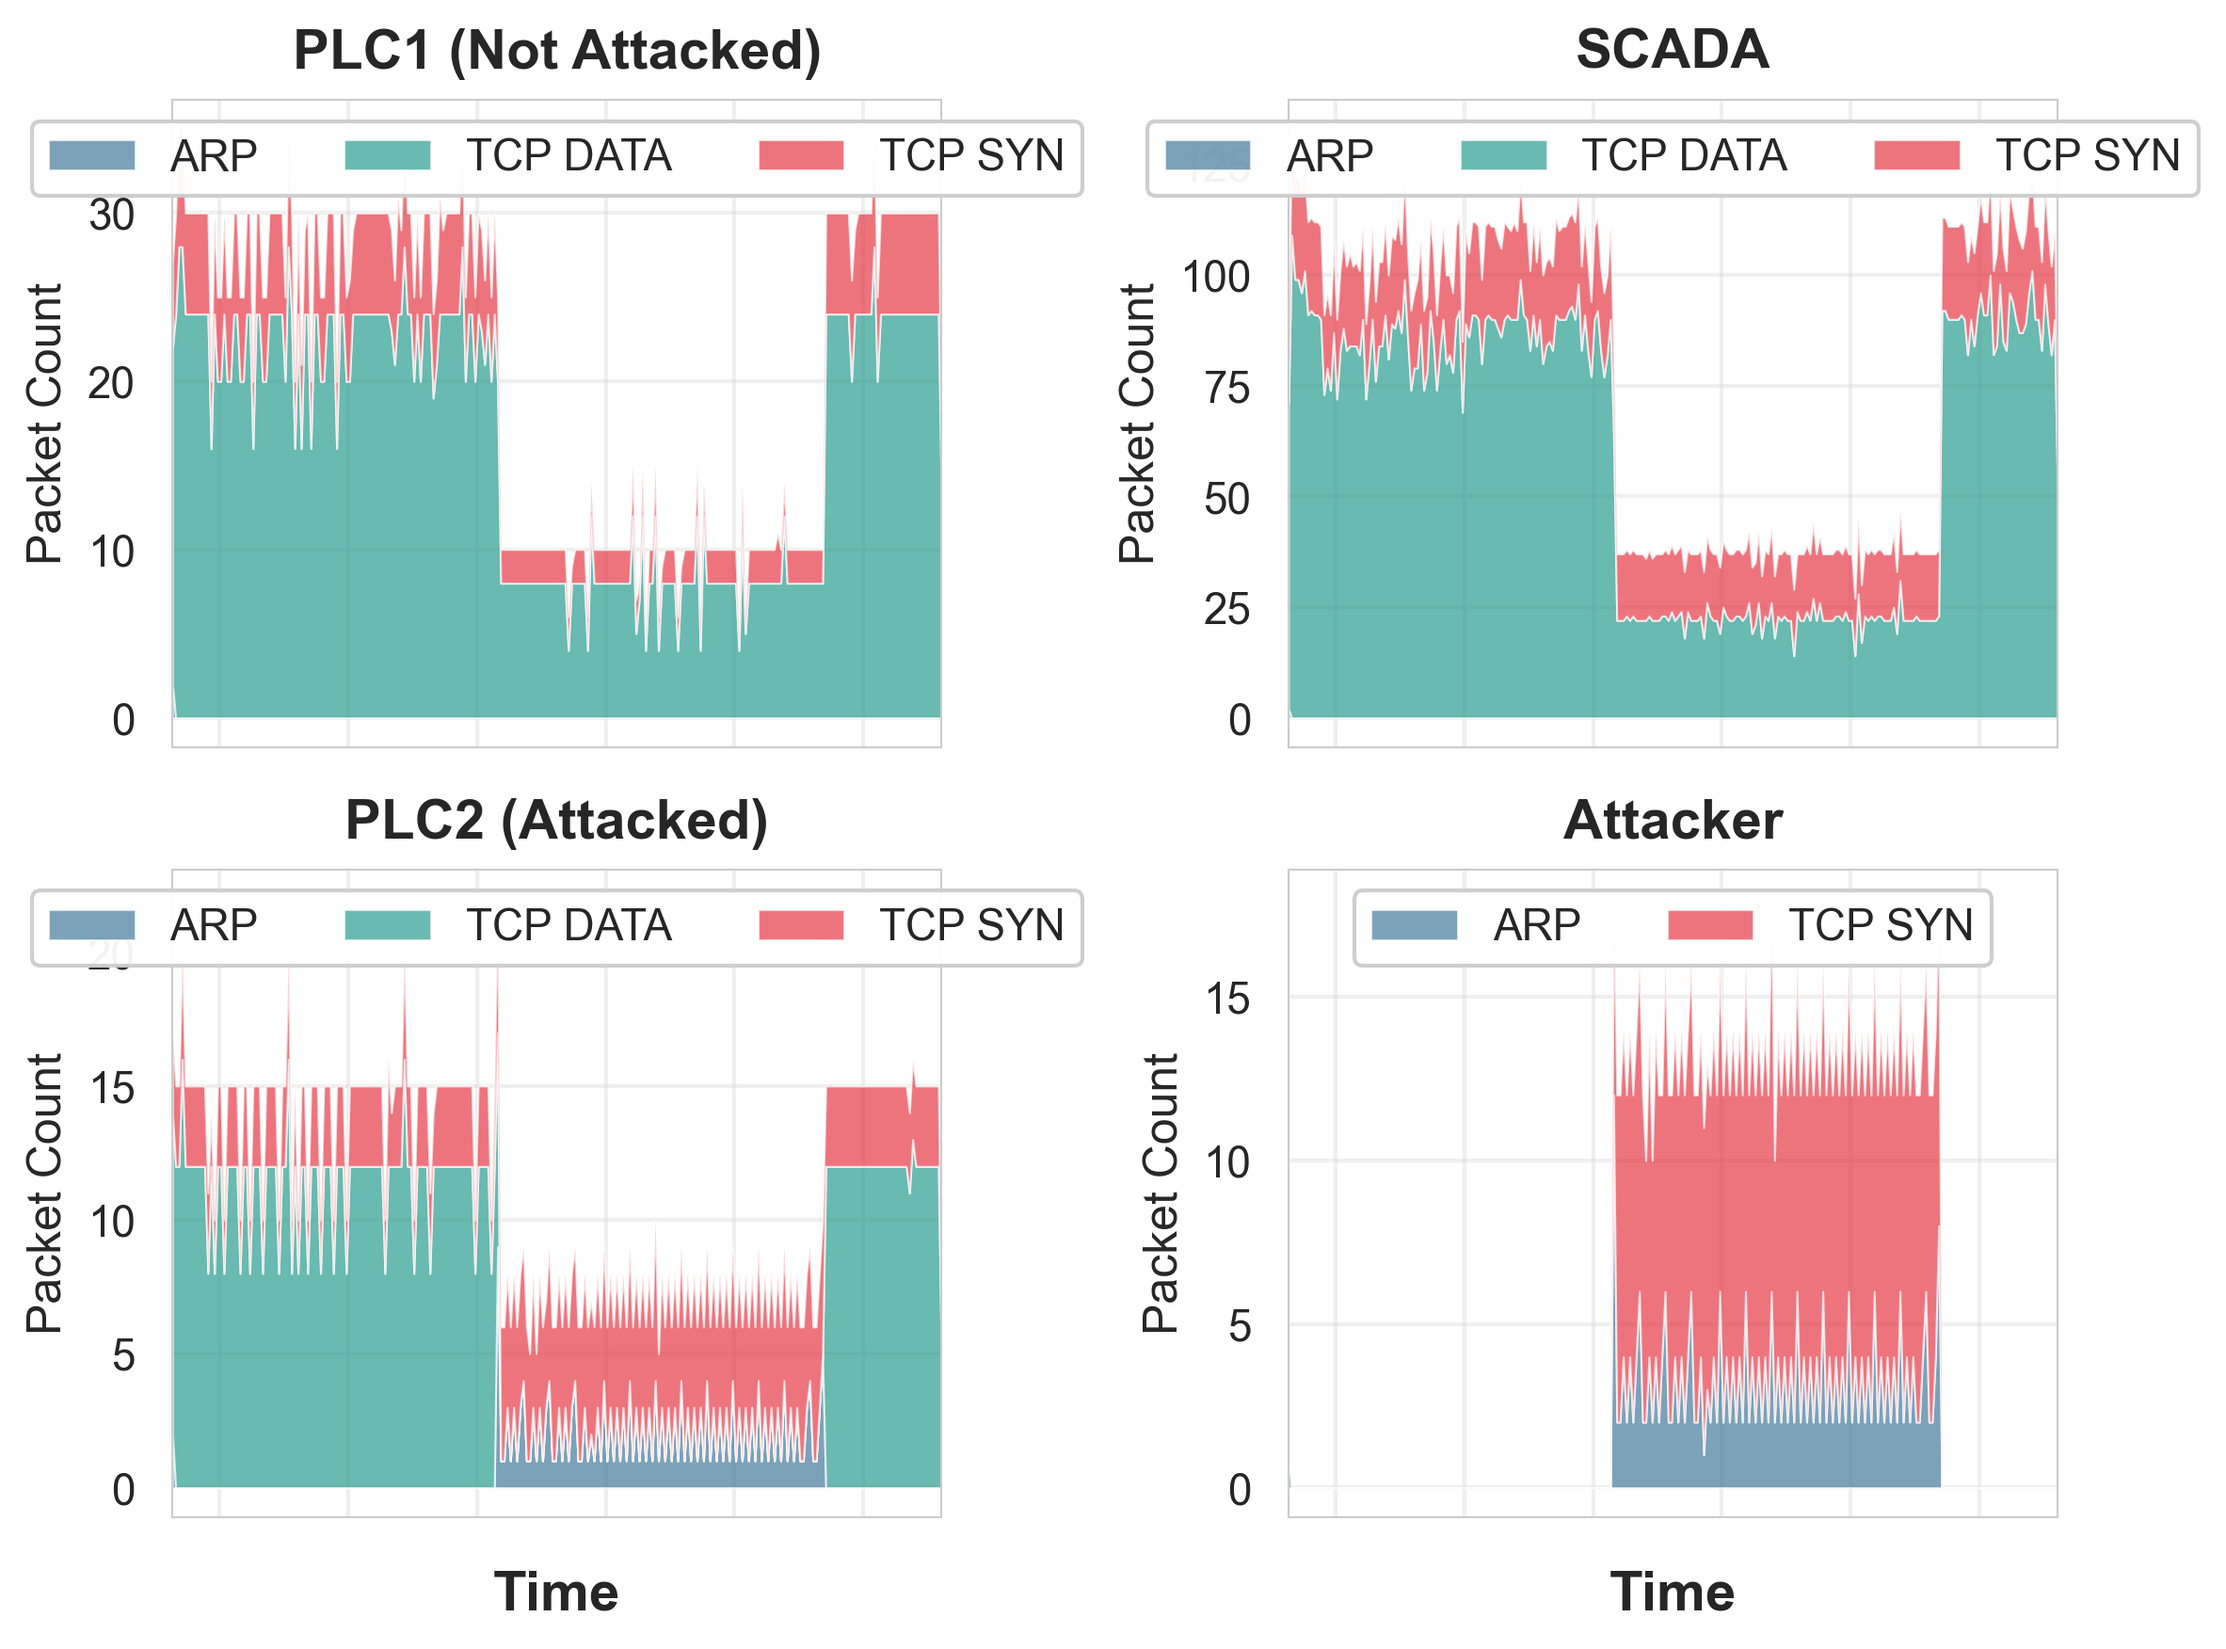
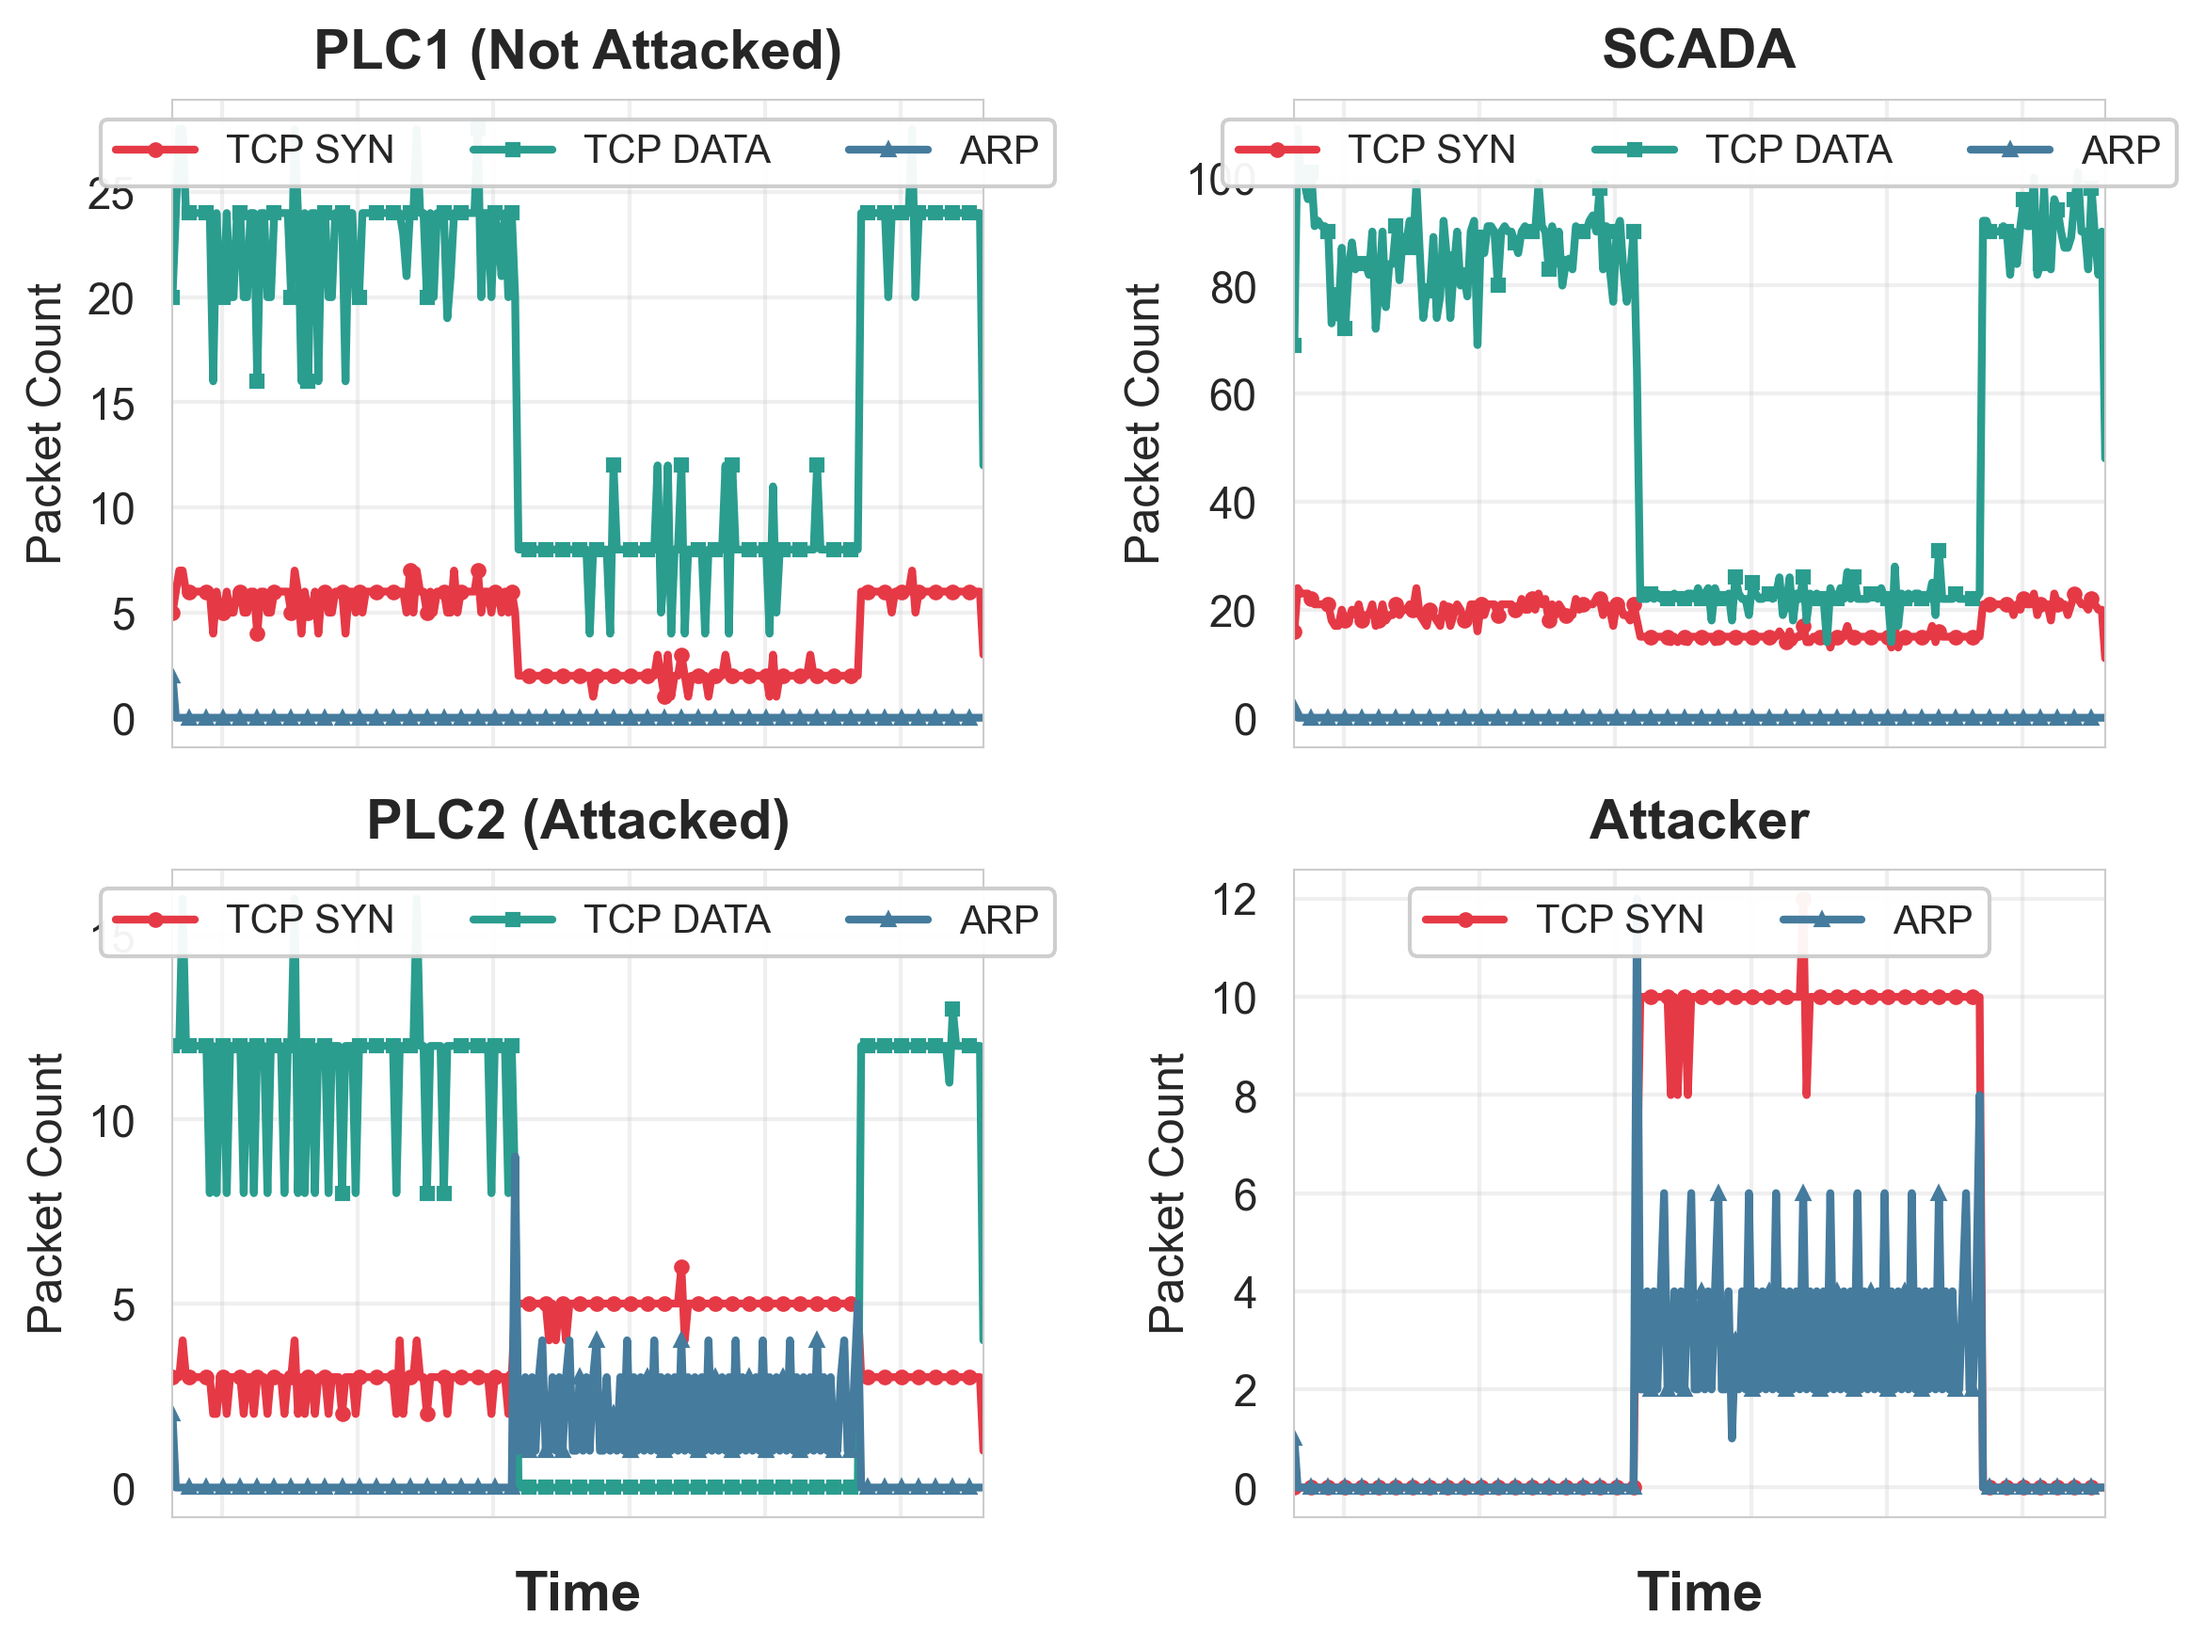
Change cyber layer visualization from stacked area to line plots

diff --git a/aaaMyViz/run_visualization.py b/aaaMyViz/run_visualization.py
@@ -140,31 +140,29 @@ try:
     def plot_binned_times_detailed(ax, packet_times, title):
         bin_centers = [bin + timedelta(seconds=bin_size / 2) for bin in bins[:-1]]
         
-        # Collect data for stacked area chart
-        data_series = {}
-        labels_order = ["ARP", "TCP-DATA", "TCP-SYN"]  # Stack order: bottom to top
+        # Line styles for each packet type
+        line_styles = {
+            "TCP-SYN": {"color": "#E63946", "linestyle": "-", "linewidth": 2, "marker": "o", "markersize": 3},
+            "TCP-DATA": {"color": "#2A9D8F", "linestyle": "-", "linewidth": 2, "marker": "s", "markersize": 3},
+            "ARP": {"color": "#457B9D", "linestyle": "-", "linewidth": 2, "marker": "^", "markersize": 3},
+        }
+        
+        labels_order = ["TCP-SYN", "TCP-DATA", "ARP"]
         
         for ptype in labels_order:
             if ptype in packet_times:
                 binned_counts, _ = np.histogram(packet_times[ptype], bins=bins)
-                data_series[ptype] = binned_counts
-            else:
-                data_series[ptype] = np.zeros(len(bin_centers))
-        
-        # Create stacked area chart
-        y_stack = np.zeros(len(bin_centers))
-        
-        for ptype in labels_order:
-            if ptype in packet_times and np.sum(data_series[ptype]) > 0:
-                label_name = ptype.replace("TCP-", "TCP ")
-                ax.fill_between(bin_centers, y_stack, y_stack + data_series[ptype], 
-                               alpha=0.7, label=label_name, color=colors[ptype], 
-                               linewidth=0.5, edgecolor='white')
-                y_stack = y_stack + data_series[ptype]
+                if np.sum(binned_counts) > 0:
+                    label_name = ptype.replace("TCP-", "TCP ")
+                    style = line_styles[ptype]
+                    ax.plot(bin_centers, binned_counts, label=label_name,
+                           color=style["color"], linestyle=style["linestyle"], 
+                           linewidth=style["linewidth"], marker=style["marker"],
+                           markersize=style["markersize"], markevery=5)
 
         ax.set_title(title, fontsize=14, fontweight="bold", pad=8)
         ax.set_ylabel("Packet Count", fontsize=12)
-        ax.legend(loc="upper center", ncol=3, frameon=True, fancybox=True, framealpha=0.95, fontsize=11)
+        ax.legend(loc="upper center", ncol=3, frameon=True, fancybox=True, framealpha=0.95, fontsize=10)
         ax.set_facecolor('white')
         ax.grid(True, alpha=0.3)
         ax.tick_params(axis='both', labelsize=11)
